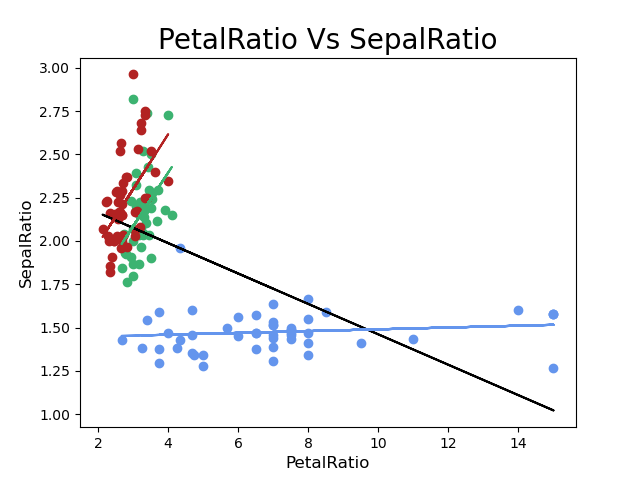
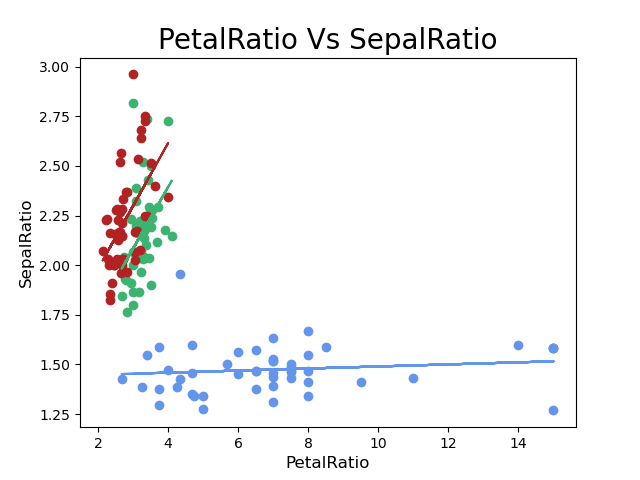
Added comments and added minor changes to graphs

diff --git a/analysis.py b/analysis.py
@@ -1,6 +1,7 @@
 # project.py
 # Author: David Burke
-# Data analysis of the Fisher's Iris data set
+# This program is used to analysis of the Fisher's Iris data set. 
+# It will load the data each time and produce scatterplots, Histograms and a text summary.
 
 #improting libaries
 from statistics import mean, stdev
@@ -18,86 +19,109 @@ import matplotlib.pyplot as plt
 #      -- Iris Setosa
 #      -- Iris Versicolour
 #      -- Iris Virginica
+
+
+# Reading data as a CSV and saving the data as a python database 
+# Adding column names as these were now includeded as part of the database
 irisData =  pd.read_csv('data\iris.data', names=['SepalLength', 'SepalWidth', 'PetalLength', 'PetalWidth', 'FlowerClass'])
 #print(irisData.head())
 
-# Sererating Flowers into subsets of data for individual analysis
+# Seperating Flowers into subsets of data for individual analysis
+# Using a logical test in the flower class column
 irisSetosa = irisData[irisData['FlowerClass'] == "Iris-setosa"]
 irisVersicolour = irisData[irisData['FlowerClass'] == "Iris-versicolor"]
 irisVirginica = irisData[irisData['FlowerClass'] == "Iris-virginica"]
 #print(irisSetosa.head())
 
-# Setting up a blank text file
+# Setting up a blank text file at the start
 filename = "Outputs\TextSummary\Analysis.txt"
 f = open(filename,"w")
 f.close()
 
 ###################### DEFINING FUNCTIONS ######################
-# FUnction for outputting a summary to a text file
+# Function for outputting a text summary to a .txt file
 def textOutput(text, title):
+    # Using append as to allow this function to be run multiple times
     with open(filename, "a") as f:
         # write takes a string so we need to convert
-        f.write(str(title))
-        f.write(str("\n"))
-        f.write(str(text))
-        f.write(str("\n"))
-        f.write(str("-----"))
-        f.write(str("\n"))
-        f.write(str("-----"))
-        f.write(str("\n"))
+        f.write(str("{} \n".format(title)))
+        # creating a large space between each text input so each database can be quickly identified
+        f.write(str("{} \n----- \n----- \n".format(text)))
 
-# function for outputting single variable histogram summaries
+# Function for outputting histogram summaries
+# This function only requires 1 input to run, we must specify which column to plot on the histogram
 def variableHist(xAxis):
+    #Subplots will be used, the sub plot function need to be told the desired output as follows (Columns, Rows, current grapths position starting top left moving right then down)
     plt.subplot(2, 1, 1)
+    # All 3 flower classes are added to the histogram seperatly to allow them to be coloured individually.
+    # bin size 30 was found to be well suited through trial and error
     plt.hist([irisSetosa[xAxis], irisVersicolour[xAxis], irisVirginica[xAxis]], bins= 30, label=['Iris-setosa', 'Iris-versicolor', 'Iris-virginica'], color = ["cornflowerblue", "mediumseagreen", "firebrick"])
+    # Adding a title and label and gridlines as part of the function
     plt.title(xAxis, size = 15, color = 'black')
     plt.xlabel(xAxis, size = 12, color = 'black')
     plt.grid(axis = 'y')
 
     # function for subpots on the second row
+    # This function is run inside of the VariableHist function
+    # This fucntion takes 4 inputs to output the graphs
     def subvariableHist(flower, xAxis, graphcolor, flowerName):
         plt.hist(flower[xAxis], bins= 10, color= graphcolor)
+        # Adding a title and label and gridlines as part of the function
         plt.title(flowerName, size = 15, color = 'black')
         plt.xlabel(xAxis, size = 9, color = 'black')
         plt.grid(axis = 'y')
 
-    # Iris Setosa subplot
+    # Iris Setosa subplot using the subvariableHist function
+    # the subplot location is confirmed before calling the subvariableHist function 
     plt.subplot(2, 3, 4)
     subvariableHist(irisSetosa, xAxis, "cornflowerblue", "Iris Setosa")
 
-    # Iris Versicolour subplot
+    # Iris Versicolour subplot using the subvariableHist function
     plt.subplot(2, 3, 5)
     subvariableHist(irisVersicolour, xAxis, "mediumseagreen", "Iris Versicolour")
 
-    # Iris Virginica subplot
+    # Iris Virginica subplot using the subvariableHist function
     plt.subplot(2, 3, 6)
     subvariableHist(irisVirginica, xAxis, "firebrick", "Iris Virginica")
 
-    # outputting the histograms to a saved .png
+    # outputting the histograms to a saved .png and also printing a copy to user
     plt.tight_layout()
+    # File path is given as relative to the analysis.py program
     plt.savefig('Outputs\Histograms\{}.png'.format(col))
     plt.show()
 
-# funtion for outputing a scatter plot of each variable pair
+# Funtion for outputing a scatter plot of each variable pair
+# This function requires 2 inputs to confirm the two variables being plotted
 def subplotter(xAxis, yAxis):
     plt.subplot(2, 1, 1)
+    # Each flower is plotted individually as to allow different colours to be selcted
     plt.scatter(irisSetosa[xAxis], irisSetosa[yAxis], color="cornflowerblue")
     plt.scatter(irisVersicolour[xAxis], irisVersicolour[yAxis], color= "mediumseagreen")
     plt.scatter(irisVirginica[xAxis], irisVirginica[yAxis], color= "firebrick")
+    # This function is used to creat a line of best fit for the data
+    # Polyfit is used to return the coefficents in the equation of best fit
     z = np.polyfit(irisData[xAxis], irisData[yAxis], 1)
+    # Poly1d is used to return a vector for the equation of the line of best fit
     p = np.poly1d(z)
+    # The line of best fit is then plotted, this is done by plotting the given data on the x-axis
+    # And then the value for the corrisponding y point is found by using passing each value through the equation created
     plt.plot(irisData[xAxis],p(irisData[xAxis]), color='black')
+    # Adding a title and label and gridlines as part of the function
     plt.yticks([0,1,2,3,4,5])
     plt.title("{} Vs {}".format(xAxis, yAxis), size = 20, color = 'black')
     plt.xlabel(xAxis, size = 12, color = 'black')
     plt.ylabel(yAxis, size = 12, color = 'black')
 
     # function for subpots on the second row
+    # This function is run inside of the subplotter function
+    # This fucntion takes 5 inputs to output the graphs
     def subplotterbot(flower, xAxis, yAxis, graphcolor, flowerName):
         plt.scatter(flower[xAxis], flower[yAxis], color= graphcolor)
+        # Again the line of best function is used here
         z = np.polyfit(flower[xAxis], flower[yAxis], 1)
         p = np.poly1d(z)
         plt.plot(flower[xAxis],p(flower[xAxis]),"black")
+        # Adding a title and label and gridlines as part of the function
         plt.yticks([0,1,2,3,4,5])
         plt.title(flowerName, size = 15, color = 'black')
         plt.xlabel(xAxis, size = 9, color = 'black')
@@ -122,81 +146,89 @@ def subplotter(xAxis, yAxis):
 
 ###################### MAIN CODE ######################
 # 1. 
-# Creating a text summary for each variable
+# Creating a text summary for each variable using the textOutput function defined above
+# The two inputs required are the text to be output and the title for the summary
 textOutput(irisData.describe(), "Summary of Iris Data set")
 textOutput(irisSetosa.describe(), "Summary of Iris Setosa subset")
 textOutput(irisVersicolour.describe(), "Summary of Iris Versicolour subset")
 textOutput(irisVirginica.describe(), "Summary of Iris Virginica subset")
 
 # 2.
-# Creating histograms for each variable
+# Creating histograms for each variable using the variableHist function defined above
+# the function will be run 4 times, for each of the columns in the database
 for col in irisData.columns:
     variableHist(col)
 
 # 3.
-# Creating scatter potls for each pair of variables
+# Creating scatter potls for each pair of variables using the subplotter function
 subplotter("SepalLength", "SepalWidth")
-
 subplotter("PetalLength", "PetalWidth")
-
 subplotter("SepalLength", "PetalWidth")
-
 subplotter("PetalLength", "SepalWidth")
 
-# 4. Extra
+####################### 4. Extra ######################
 # Analysis of the relationship between petal dimetions and the sepal relationships
+# This relationship will be defined as the Petal Lenth / the Petal Width 
+# over the Sepal Lenth / Sepal Width
 flowers = ["irisSetosa", "irisVersicolour", "irisVirginica"]
 
+# defining the ratio for each of the databases
+# Full irisData base
 irisDataPetalRatio = irisData["PetalLength"] / irisData["PetalWidth"]
 irisDataSepalRatio = irisData["SepalLength"] / irisData["SepalWidth"]
 
+# Each of the 3 flower classes
 irisSetosaPetalRatio = irisSetosa["PetalLength"] / irisSetosa["PetalWidth"]
 irisSetosaSepalRatio = irisSetosa["SepalLength"] / irisSetosa["SepalWidth"]
-
 irisVersicolourPetalRatio = irisVersicolour["PetalLength"] / irisVersicolour["PetalWidth"]
 irisVersicolourSepalRatio = irisVersicolour["SepalLength"] / irisVersicolour["SepalWidth"]
-
 irisVirginicaPetalRatio = irisVirginica["PetalLength"] / irisVirginica["PetalWidth"]
 irisVirginicaSepalRatio = irisVirginica["SepalLength"] / irisVirginica["SepalWidth"]
 
-z = np.polyfit(irisDataPetalRatio, irisDataSepalRatio, 1)
-p = np.poly1d(z)
-plt.plot(irisDataPetalRatio,p(irisDataPetalRatio), color= "black")
-
+# plotting data for the irisSetosa and the trend line for this data
 plt.scatter(irisSetosaPetalRatio, irisSetosaSepalRatio, color="cornflowerblue")
 z = np.polyfit(irisSetosaPetalRatio, irisSetosaSepalRatio, 1)
 p = np.poly1d(z)
 plt.plot(irisSetosaPetalRatio,p(irisSetosaPetalRatio), color="cornflowerblue")
 
+# plotting data for the irisVersicolour and the trend line for this data
 plt.scatter(irisVersicolourPetalRatio, irisVersicolourSepalRatio, color= "mediumseagreen")
 z = np.polyfit(irisVersicolourPetalRatio, irisVersicolourSepalRatio, 1)
 p = np.poly1d(z)
 plt.plot(irisVersicolourPetalRatio,p(irisVersicolourPetalRatio), color="mediumseagreen")
 
+# plotting data for the irisVirginica and the trend line for this data
 plt.scatter(irisVirginicaPetalRatio, irisVirginicaSepalRatio, color= "firebrick")
 z = np.polyfit(irisVirginicaPetalRatio, irisVirginicaSepalRatio, 1)
 p = np.poly1d(z)
 plt.plot(irisVirginicaPetalRatio,p(irisVirginicaPetalRatio), color="firebrick")
 
+# Adding a title and label and gridlines as part of the function
 plt.title("PetalRatio Vs SepalRatio", size = 20, color = 'black')
 plt.xlabel("PetalRatio", size = 12, color = 'black')
 plt.ylabel("SepalRatio", size = 12, color = 'black')
 plt.savefig('Outputs\Extra\PetalRatioVsSepalRatio.png')
 plt.show()
 
-# 5. Extra
-# Analyis the relationship between the mean petal lenth and the standard deviation
+####################### 5. Extra ######################
+# Analyis the relationship between the mean petal lenth
+# and the standard deviation for that flower class
+
+# First finding each mean petal lenth
 irisSetosaMean = mean(irisSetosa["PetalLength"])
 irisVersicolourMean = mean(irisVersicolour["PetalLength"])
 irisVirginicaMean = mean(irisVirginica["PetalLength"])
 
+# next finding the standard deviation for each petal lenth
 irisSetosaSD = stdev(irisSetosa["PetalLength"])
 irisVersicolourSD = stdev(irisVersicolour["PetalLength"])
 irisVirginicaSD = stdev(irisVirginica["PetalLength"])
 
+# Plotting each of the results
 plt.scatter(irisSetosaMean, irisSetosaSD, color="cornflowerblue")
 plt.scatter(irisVersicolourMean, irisVersicolourSD, color= "mediumseagreen")
 plt.scatter(irisVirginicaMean, irisVirginicaSD, color= "firebrick")
+# Adding a title and label and gridlines as part of the function
 plt.title("MeanPetalLength Vs SDPetalLength", size = 20, color = 'black')
 plt.xlabel("MeanPetalLength", size = 12, color = 'black')
 plt.ylabel("SDPetalLength", size = 12, color = 'black')
